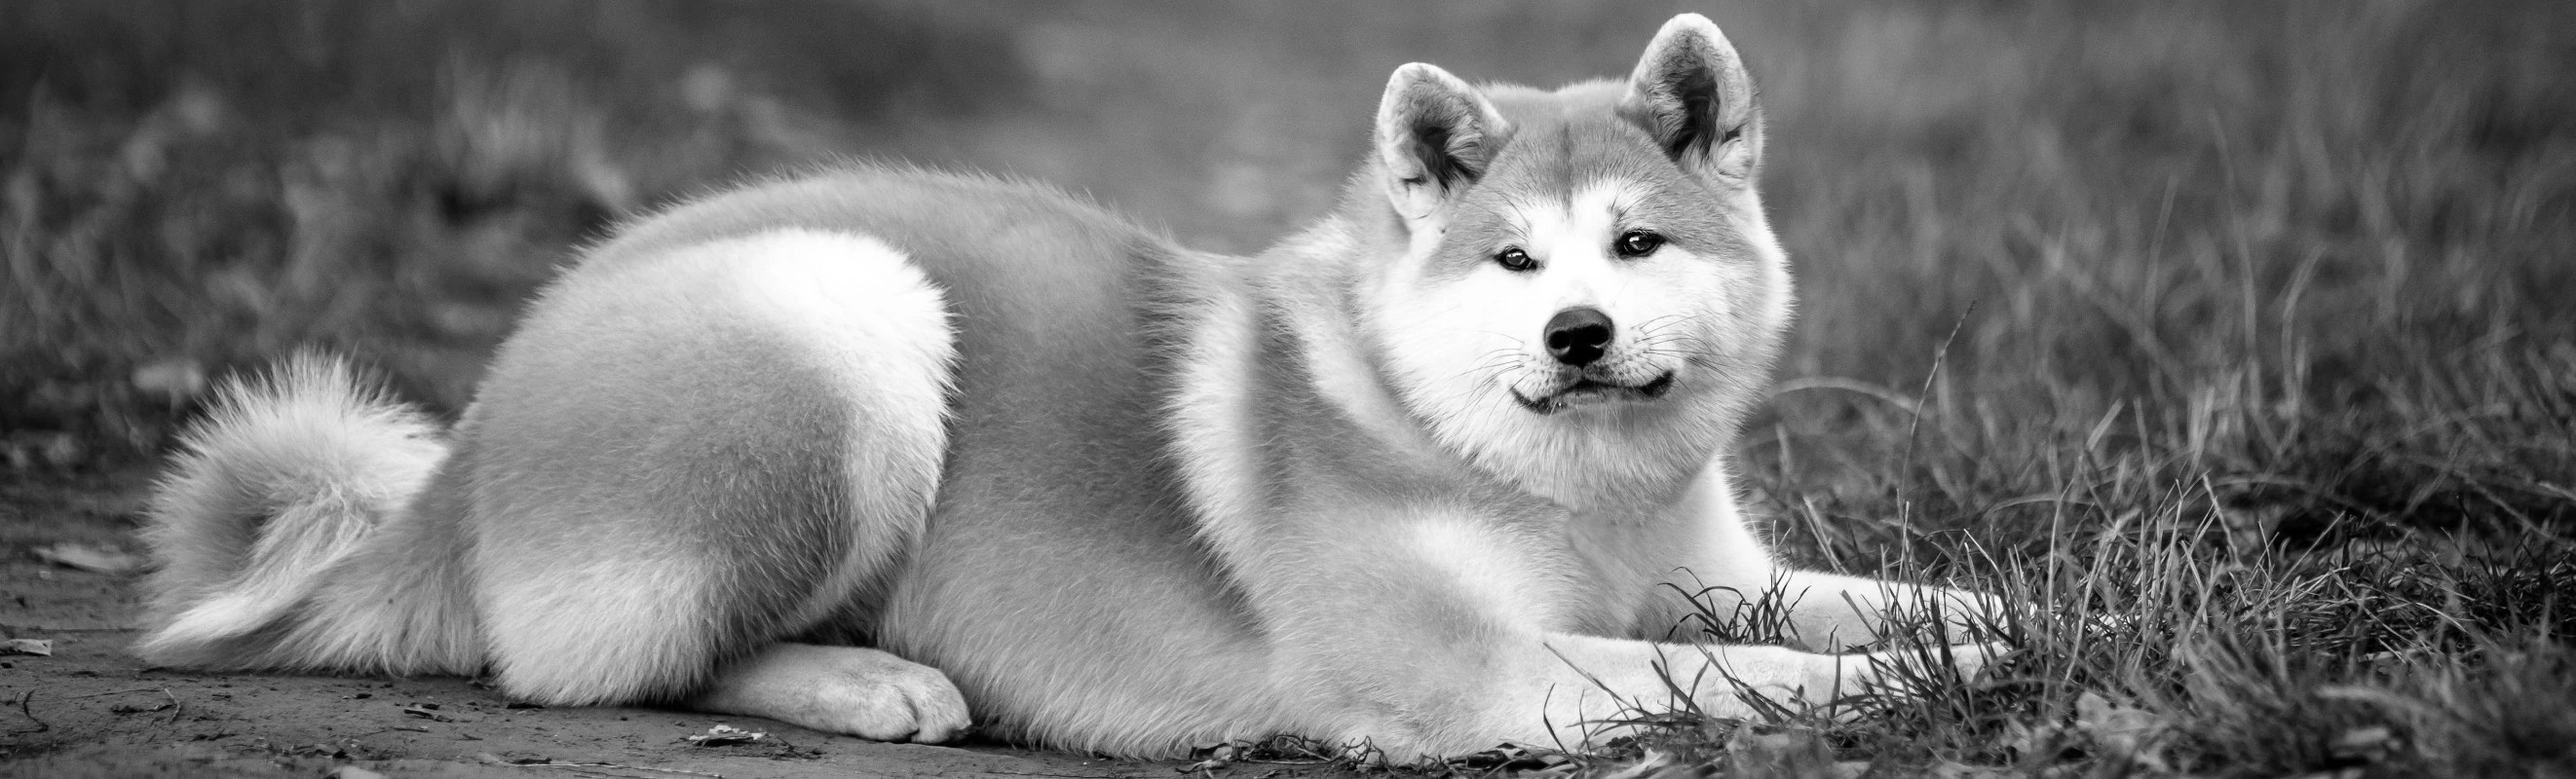
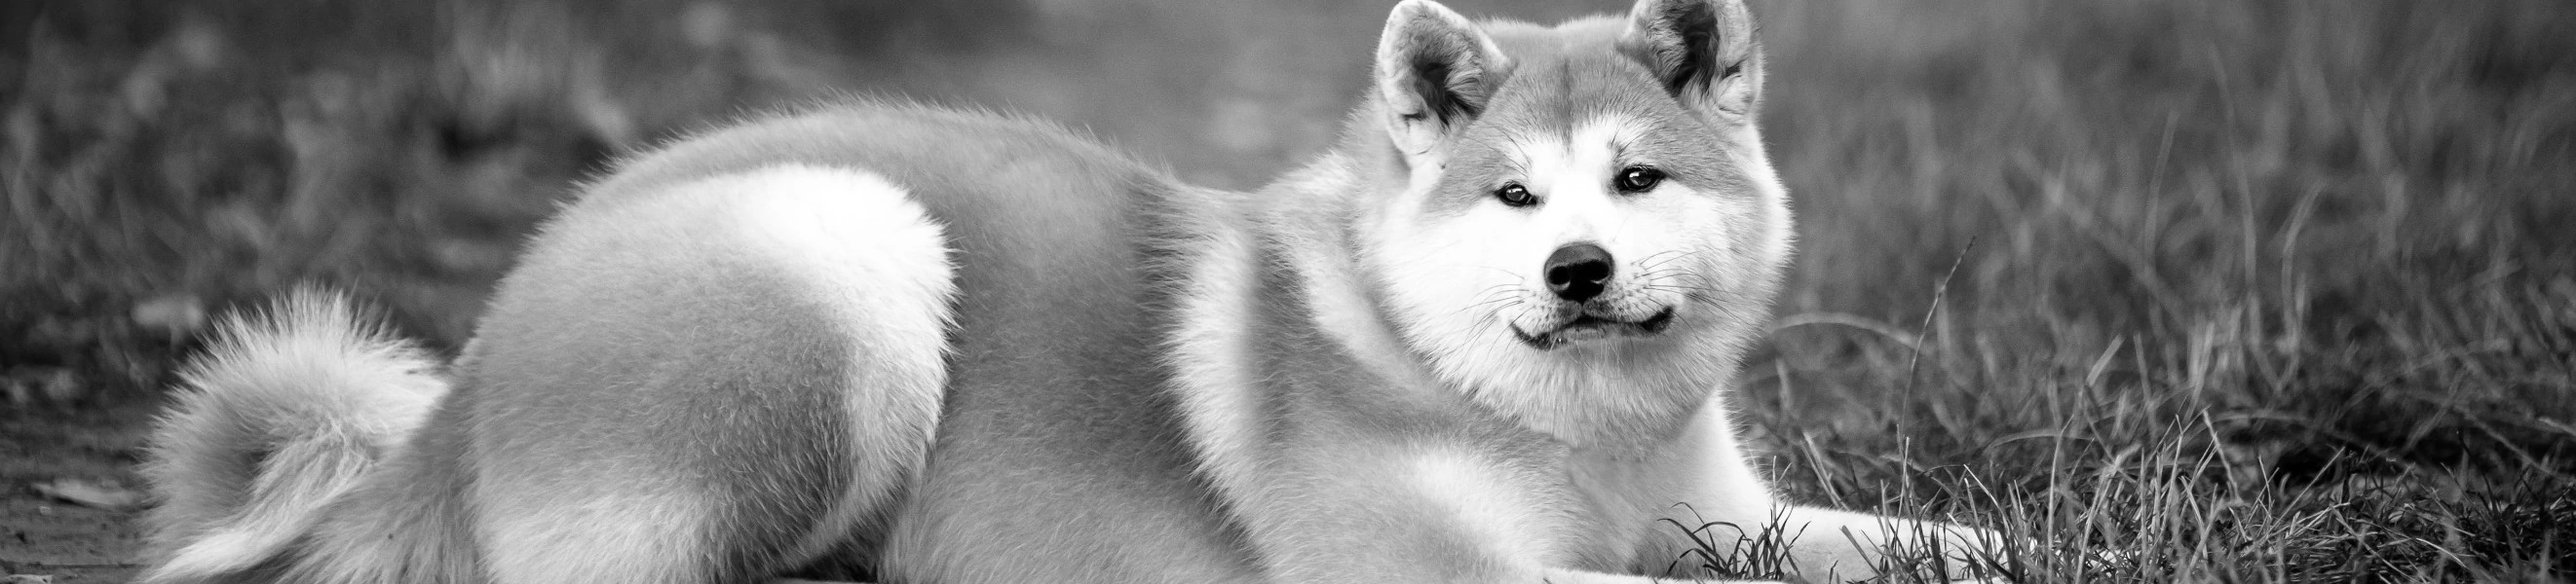
decreased file height of hero image to 600px and 450px for smaller devices for performance improvement

diff --git a/assets/css/style.css b/assets/css/style.css
@@ -343,6 +343,7 @@ iframe {
     
     #hero-outer {
         top: 120px;
+        height: 450px;
     }
 
     #menu {
@@ -354,6 +355,7 @@ iframe {
     }
 
     #hero-image {
+        height: 450px;
         background: url('../images/akitabw-small.webp') no-repeat center center;
     }
 
